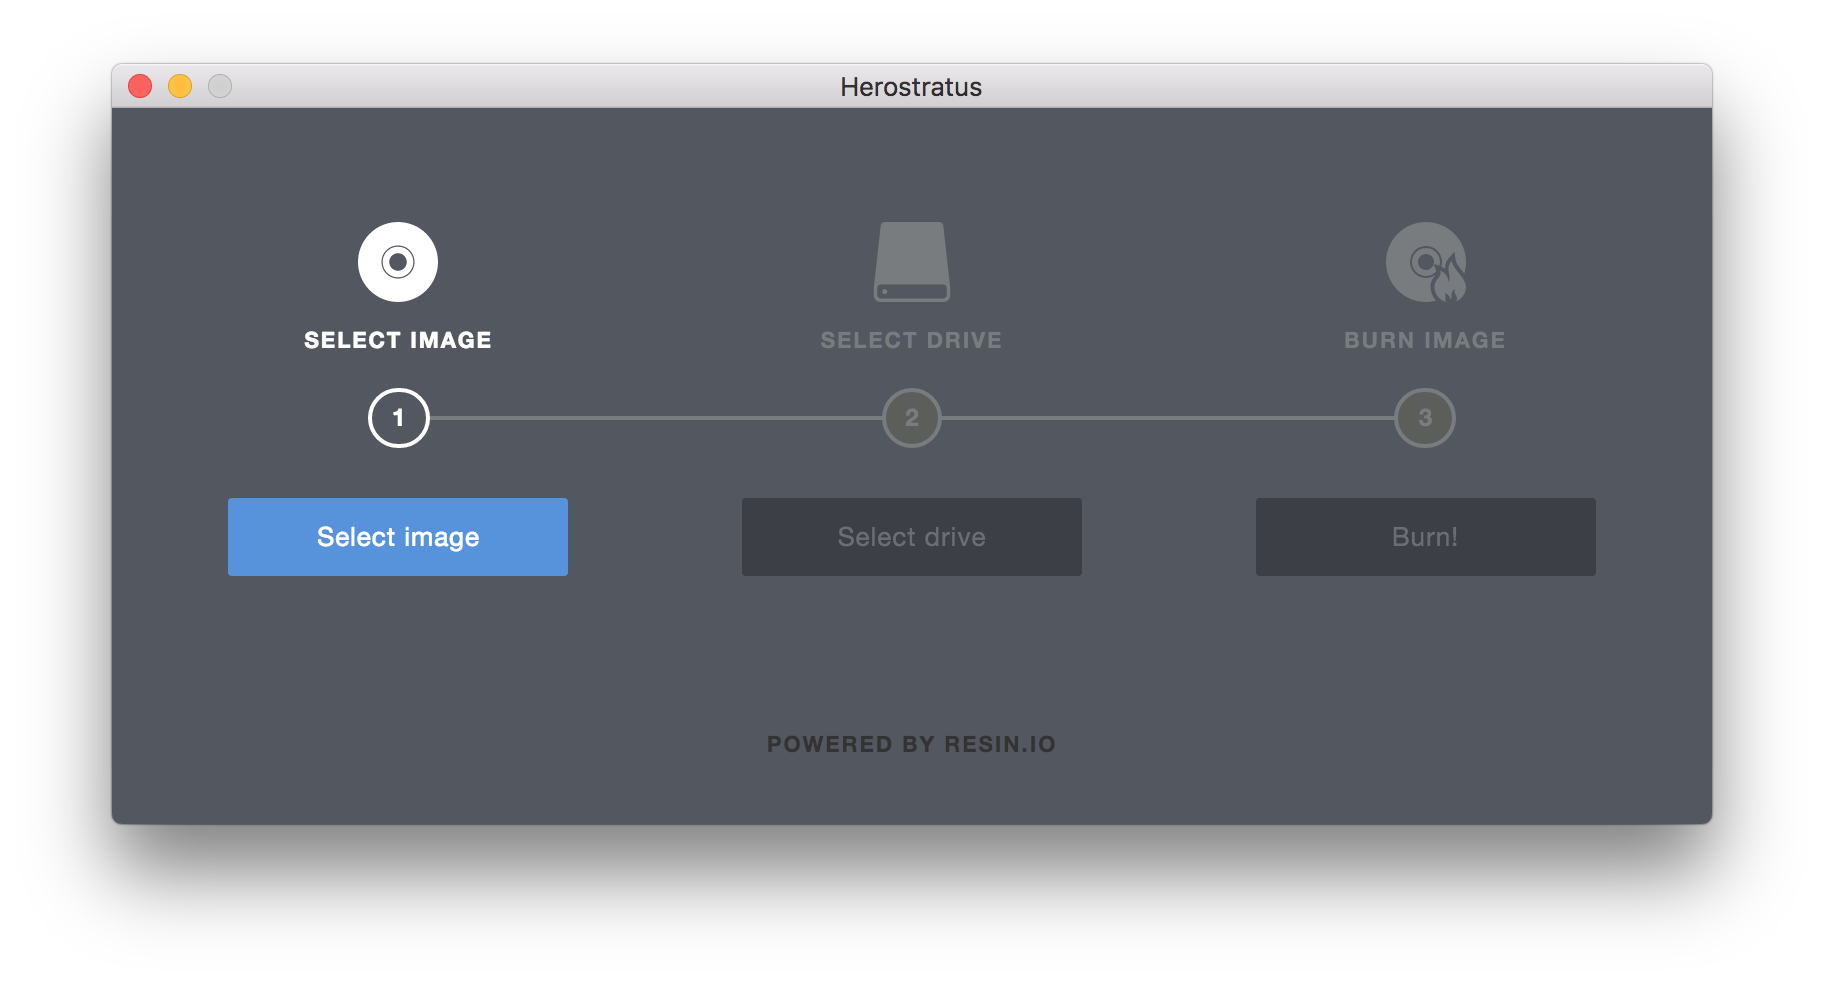
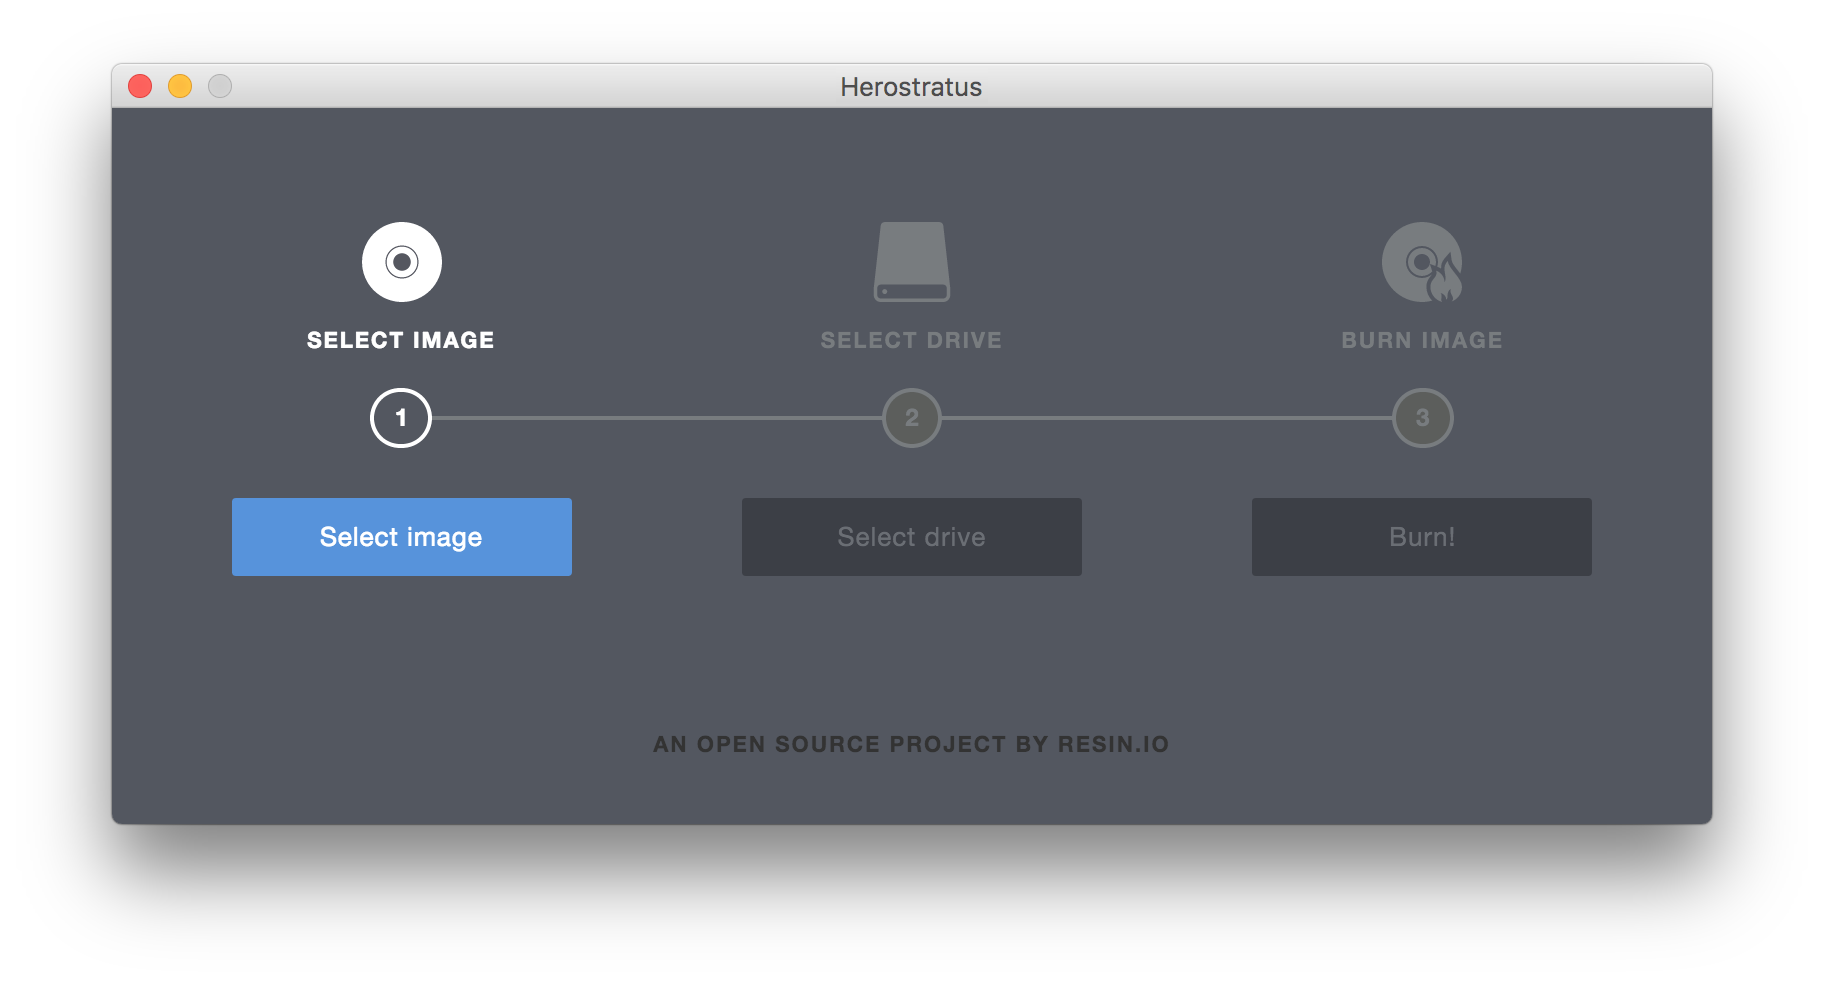
Change footer text
Change "POWERED BY RESIN.IO" to "AN OPEN SOURCE PROJECT BY RESIN.IO".

Fixes: https://github.com/resin-io/herostratus/issues/25

diff --git a/lib/index.html b/lib/index.html
@@ -94,7 +94,7 @@
         <div class="row around-xs section-footer">
           <div class="col-xs">
             <div class="box text-center">
-              <hero-caption ng-click="app.open('https://resin.io')">POWERED BY RESIN.IO</hero-caption>
+              <hero-caption ng-click="app.open('https://resin.io')">AN OPEN SOURCE PROJECT BY RESIN.IO</hero-caption>
             </div>
           </div>
         </div>
